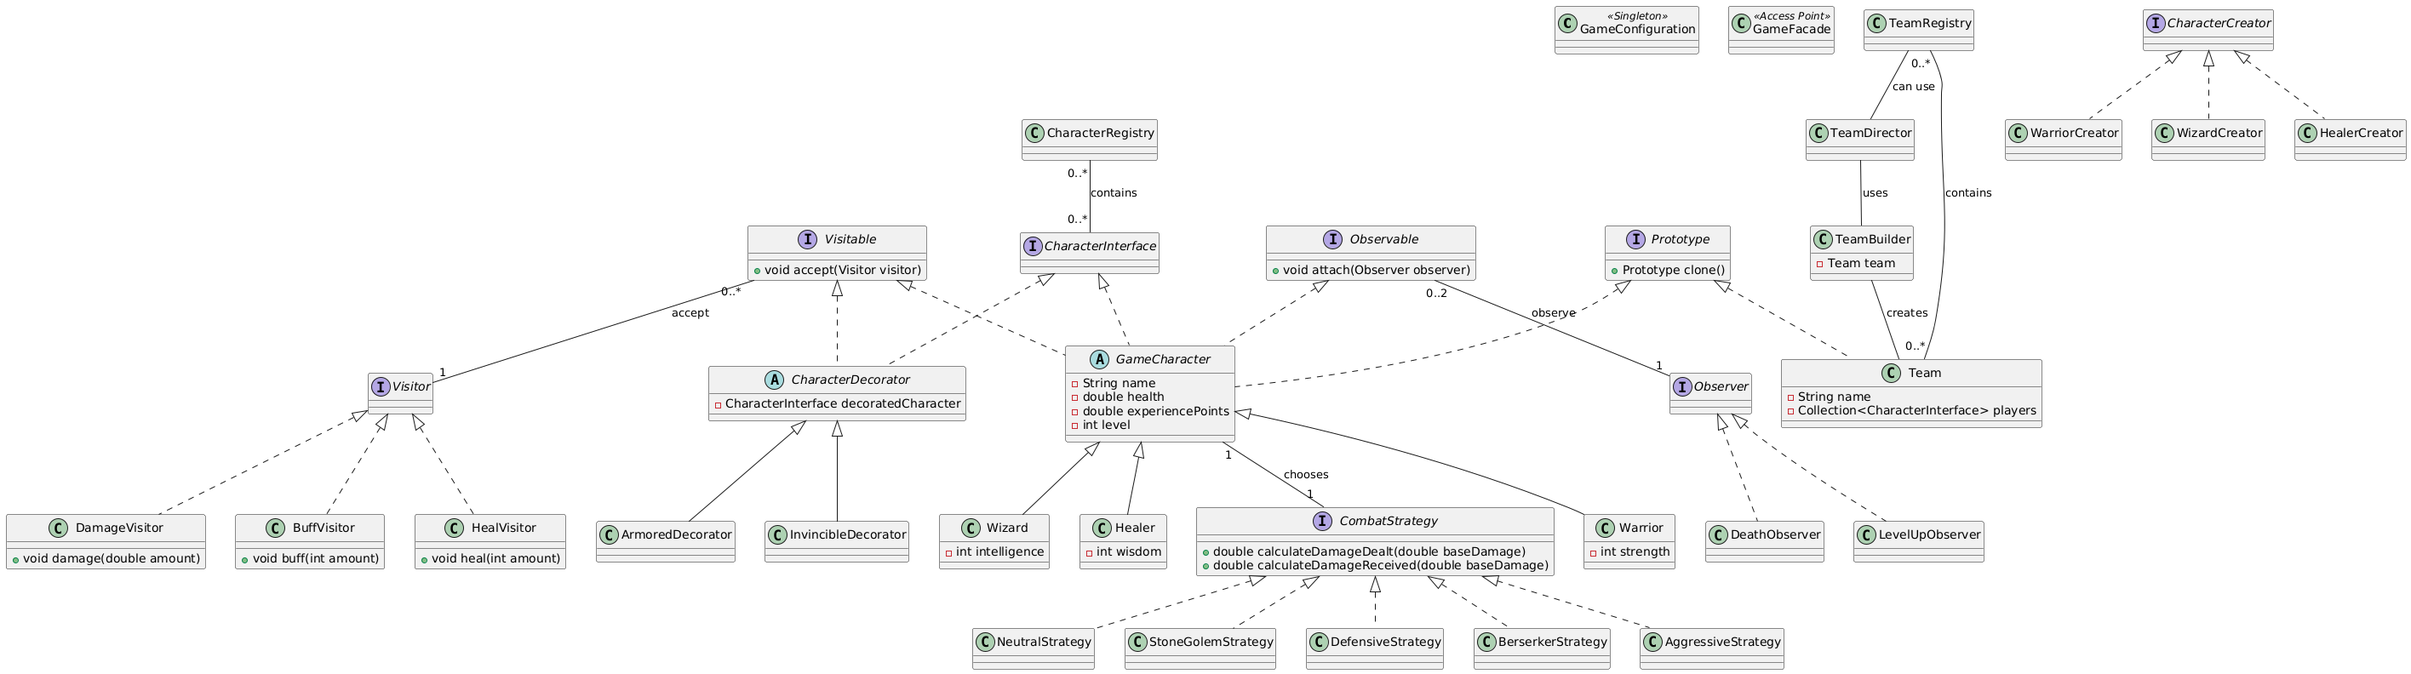
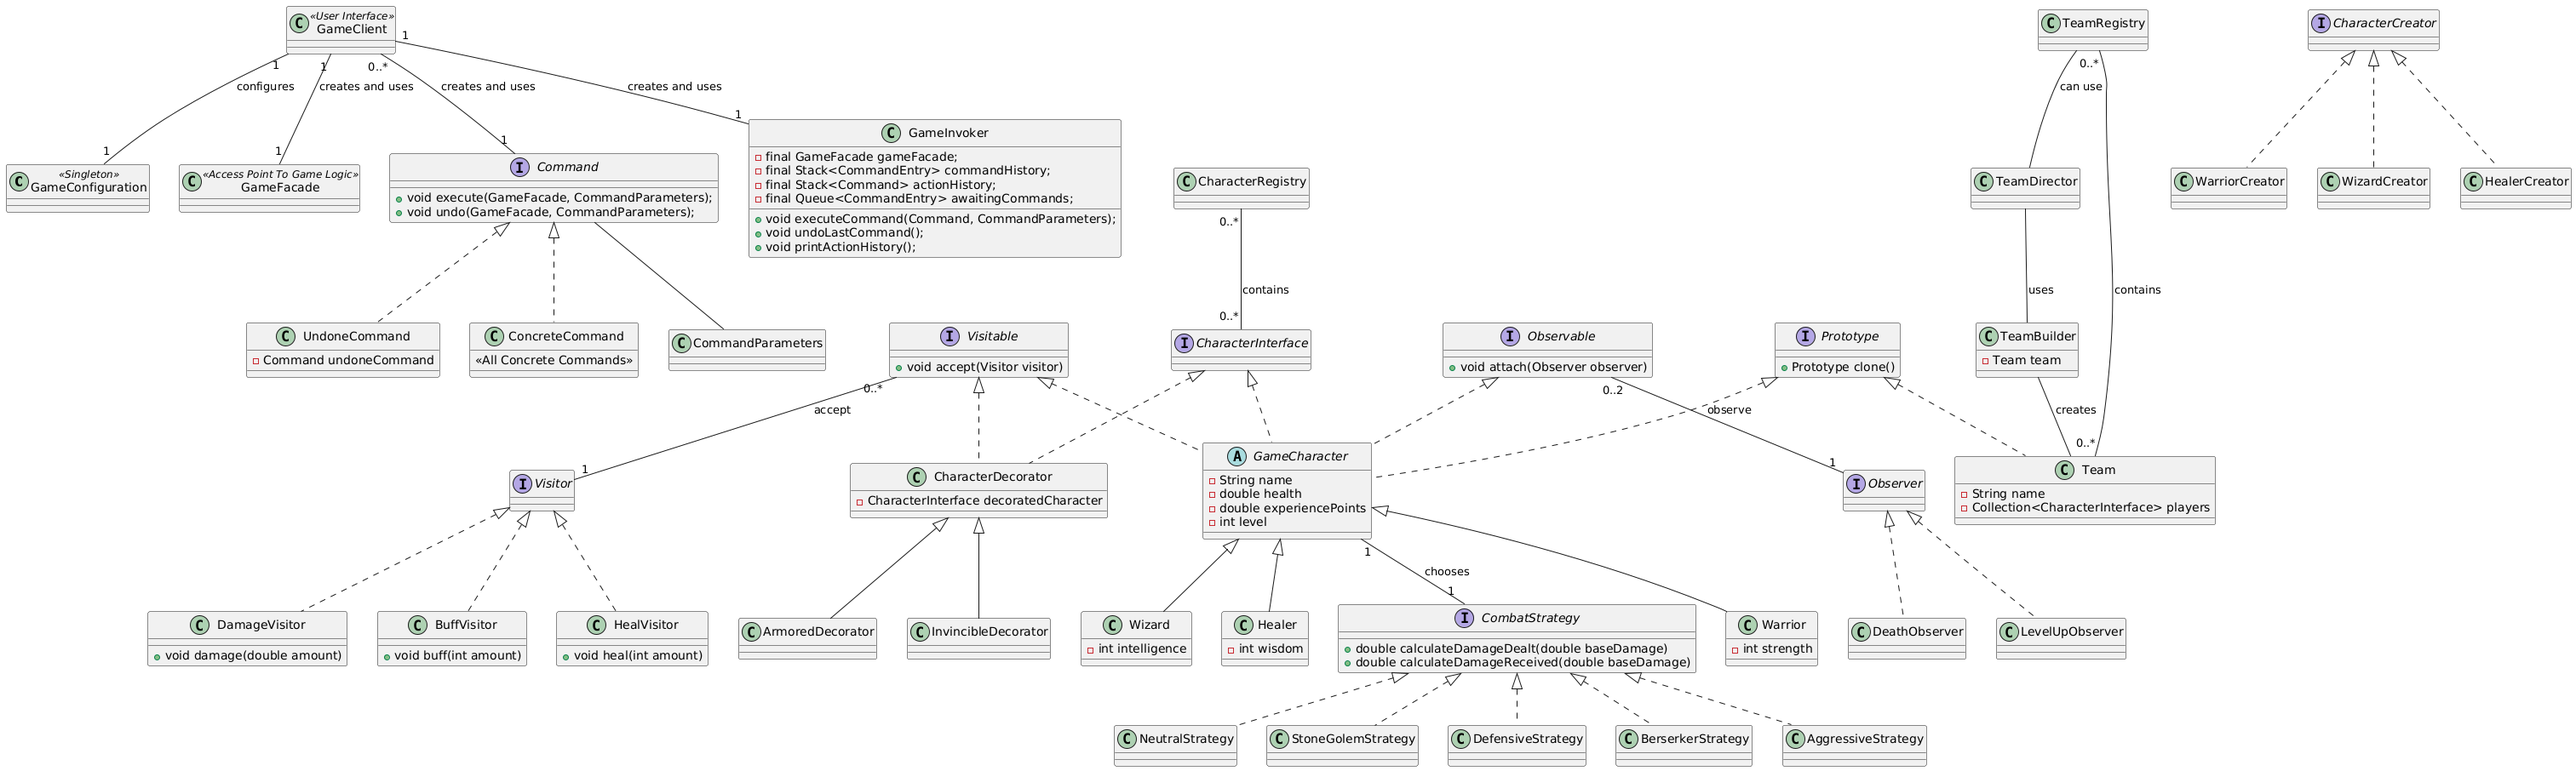
Correction de bugs et mise à jour diagramme de classes

diff --git a/src/main/java/eu/telecomnancy/rpg/App/GameClient.java b/src/main/java/eu/telecomnancy/rpg/App/GameClient.java
@@ -52,6 +52,10 @@ public class GameClient {
                     // Undo the previous command
                     invoker.undoLastCommand();
                     break;
+                case "PRINTHISTORY":
+                    // Print the command history
+                    invoker.printActionHistory();
+                    break;
                 // Game Commands
                 case "CREATETEAM":
                     // Handle the createTeam command
@@ -88,6 +92,14 @@ public class GameClient {
                 case "BUFFCHARACTER":
                     // Buff a character in a team
                     handleBuffCharacter(input, invoker, cp);
+                    break;
+                case "HEALTEAM":
+                    // Heals a team
+                    handleHealTeam(input, invoker, cp);
+                    break;
+                case "HEALCHARACTER":
+                    // Heals a character
+                    handleHealCharacter(input, invoker, cp);
                     break;
                 case "EQUIPARMOR":
                     // Equip a character with an armor
